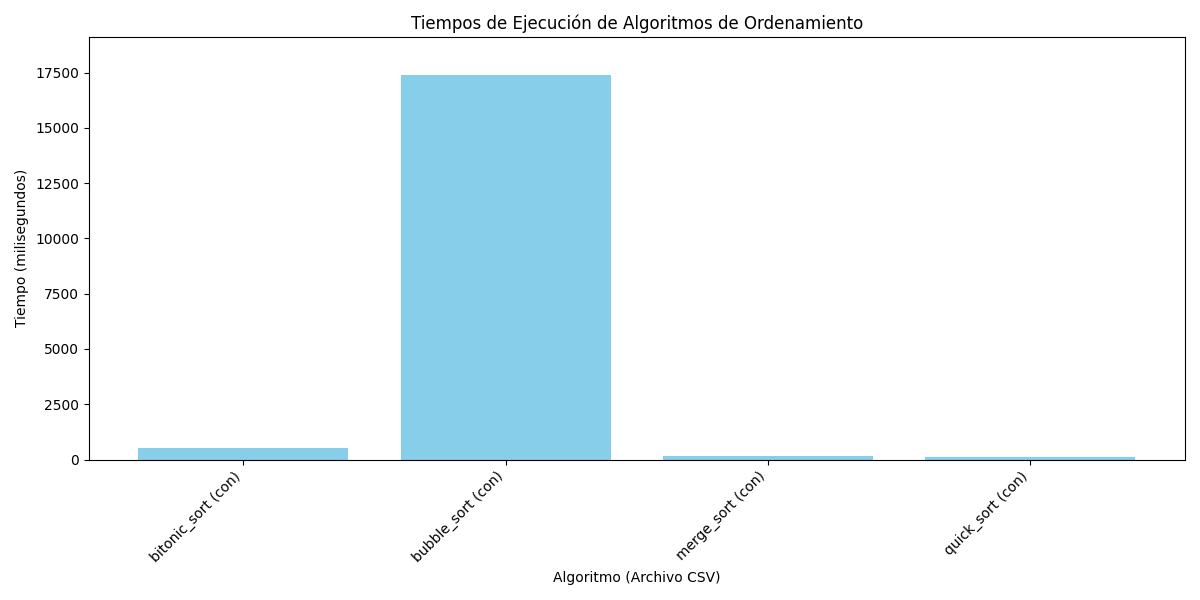
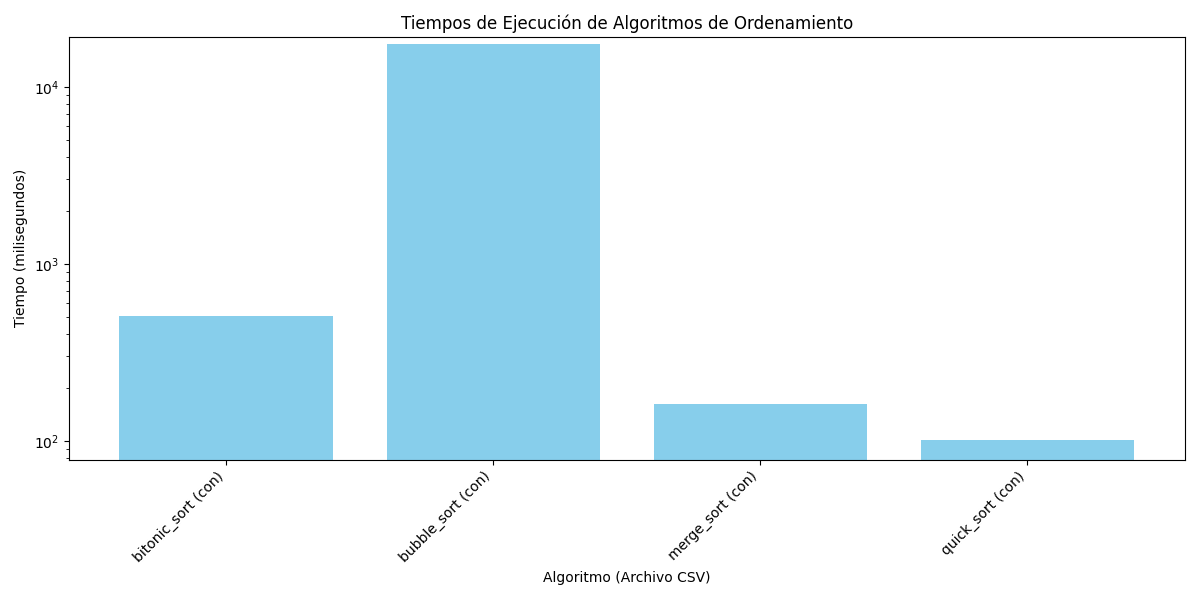
(UPDATE) El gráfico de barras muestra los 3 tiempos de ejecución

diff --git a/script.py b/script.py
@@ -3,8 +3,10 @@ import matplotlib.pyplot as plt
 # Ruta del archivo de resumen
 summary_file = 'ordenamiento/results/summary/summary.txt'
 
-# Diccionario para almacenar los tiempos de ejecución
-results = {}
+# Diccionarios para almacenar los tiempos de ejecución por archivo CSV
+results_diezmil = {}
+results_cienmil = {}
+results_millon = {}
 
 # Leer el archivo de resumen
 with open(summary_file, 'r') as file:
@@ -37,33 +39,52 @@ with open(summary_file, 'r') as file:
                 time_value *= 1000 * 60  # Convertir minutos a milisegundos.
 
             algo_name = algorithm_info.split()[0]
-            csv_file = algorithm_info.split()[2]
+            csv_file = algorithm_info.split()[-1]  # Cambiar para detectar el archivo correctamente
             
-            results[f"{algo_name} ({csv_file})"] = time_value
+            # Depuración para verificar el archivo CSV detectado
+            print(f"Archivo CSV detectado: {csv_file}")
 
-# Verificar si hay datos en el diccionario
-if not results:
-    print("No se encontraron datos en el archivo.")
-else:
-    print("Datos leídos correctamente:", results)
+            # Almacenar los tiempos en el diccionario correspondiente
+            if 'diezmil.csv' in csv_file:
+                results_diezmil[f"{algo_name} (diezmil)"] = time_value
+            elif 'cienmil.csv' in csv_file:
+                results_cienmil[f"{algo_name} (cienmil)"] = time_value
+            elif 'millon.csv' in csv_file:
+                results_millon[f"{algo_name} (millon)"] = time_value
 
-# Preparar los datos para el gráfico
-algorithms = list(results.keys())
-times = list(results.values())
+# Función para crear gráficos ordenados
+def generar_grafico(resultados, titulo, nombre_archivo):
+    if not resultados:
+        print(f"No se encontraron datos para {titulo}.")
+        return
+    
+    # Ordenar los resultados por tiempo de ejecución (valores)
+    sorted_results = sorted(resultados.items(), key=lambda x: x[1])
 
-# Crear el gráfico de barras
-plt.figure(figsize=(12, 6))
-plt.bar(algorithms, times, color='skyblue')
-plt.xlabel('Algoritmo (Archivo CSV)')
-plt.ylabel('Tiempo (milisegundos)')
-plt.title('Tiempos de Ejecución de Algoritmos de Ordenamiento')
-plt.xticks(rotation=45, ha='right')
+    # Separar algoritmos y tiempos ordenados
+    algorithms, times = zip(*sorted_results)
 
-# Ajustar los límites de los ejes (opcional)
-plt.ylim(0, max(times) * 1.1)
+    # Crear el gráfico de barras
+    plt.figure(figsize=(12, 6))
+    plt.bar(algorithms, times, color='skyblue')
+    plt.xlabel('Algoritmo')
+    plt.ylabel('Tiempo (milisegundos)')
+    plt.title(titulo)
+    plt.xticks(rotation=45, ha='right')
 
-plt.tight_layout()
+    # Cambiar la escala del eje y a logarítmica
+    plt.yscale('log')
 
-# Guardar el gráfico
-plt.savefig('ordenamiento/results/summary/times_plot.png')
-plt.show()
+    # Ajustar los límites de los ejes (opcional)
+    plt.ylim(min(times) * 0.9, max(times) * 1.1)
+
+    plt.tight_layout()
+
+    # Guardar el gráfico
+    plt.savefig(f'ordenamiento/results/summary/{nombre_archivo}.png')
+    plt.show()
+
+# Generar gráficos para cada conjunto de datos
+generar_grafico(results_diezmil, 'Tiempos de Ejecución con 10,000 Elementos', 'times_plot_diezmil')
+generar_grafico(results_cienmil, 'Tiempos de Ejecución con 100,000 Elementos', 'times_plot_cienmil')
+generar_grafico(results_millon, 'Tiempos de Ejecución con 1,000,000 Elementos', 'times_plot_millon')
